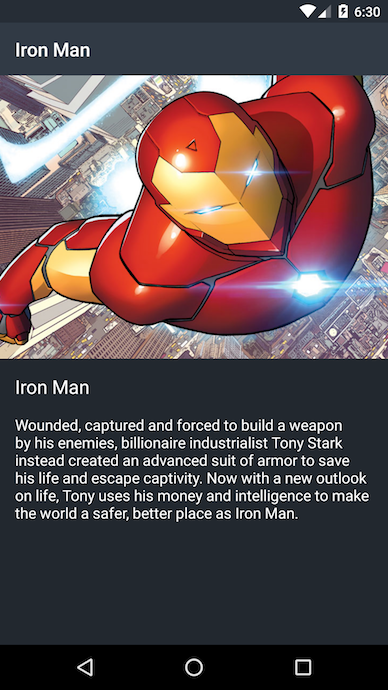
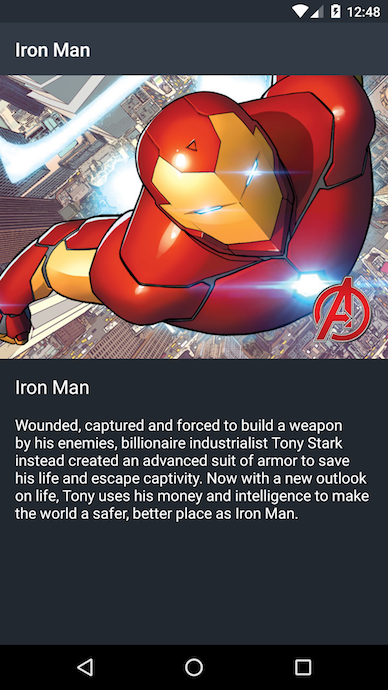
Update screenshot and README.md

Changed region(s): [[0.8041, 0.3957, 0.9588, 0.5174], [0.7423, 0.0, 0.9897, 0.0304]]

diff --git a/README.md b/README.md
@@ -16,16 +16,18 @@ This repository contains an Android application to show Super Heroes information
 
 This Application is based on two Activities:
 
-* ``MainActivity``, showing a list of super heroes with name, photo and a special badge if is part of the Avengers Team.
+* ``MainActivity`` showing a list of super heroes with name, photo and a special badge if is part of the Avengers Team.
 
 ![MainActivityScreenhot][mainActivityScreenshot]
 
-* ``SuperHeroDetailActivity``, showing detailed information for a super hero like the name, photo and description.
+* ``SuperHeroDetailActivity`` showing detailed information for a super hero like the name, photo and description.
 
 ![SuperHeroDetailActivityScreenshot][superHeroDetailActivityScreenshot]
 
 
-**Your task as Android Developer for this kata is to write all the UI tests needed to check if the Application UI is working as should. The application architecture, dependencies and configuration is ready to just start writing tests. In this project you'll find a Dagger2 configured to be able to replace production code with test doubles easily and Espresso to be able to interact with the application user interface.**
+**Your task as Android Developer is to write all the UI tests needed to check if the Application UI is working as should. The application architecture, dependencies and configuration is ready to just start writing tests. In this project you'll find a Dagger2 configured to be able to replace production code with test doubles easily and Espresso to be able to interact with the application user interface.**
+
+This repository is ready to build the application, pass the checkstyle and your tests in Travis-CI environments. **Our recommendation for this exercise is to fork this repository, checkout to the brach project-withtout-tests and start testing the application.**
 
 Before to start, execute the application, explore it manually and review the code to design your test scenarios.
 
@@ -45,6 +47,10 @@ There are some links which can be useful to finish these tasks:
 
 * [Android Testing Support Library official documentation][androidTestingDocumentation]
 * [Espresso Cheat Sheet][espressoCheatSheet]
+* [Espresso Idling Resources][espressoIdlingResources]
+* [Espresso Custom Matchers][espressoCustomMatchers]
+
+Data provided by Marvel. © 2016 MARVEL
 
 #License
 
@@ -71,3 +77,5 @@ limitations under the License.
 [superHeroDetailActivityScreenshot]: ./art/SuperHeroDetailActivityScreenshot.png
 [androidTestingDocumentation]: https://google.github.io/android-testing-support-library
 [espressoCheatSheet]: https://google.github.io/android-testing-support-library/docs/espresso/cheatsheet/index.html
+[espressoIdlingResources]: http://dev.jimdo.com/2014/05/09/wait-for-it-a-deep-dive-into-espresso-s-idling-resources/
+[espressoCustomMatchers]: http://blog.xebia.com/android-custom-matchers-in-espresso/
